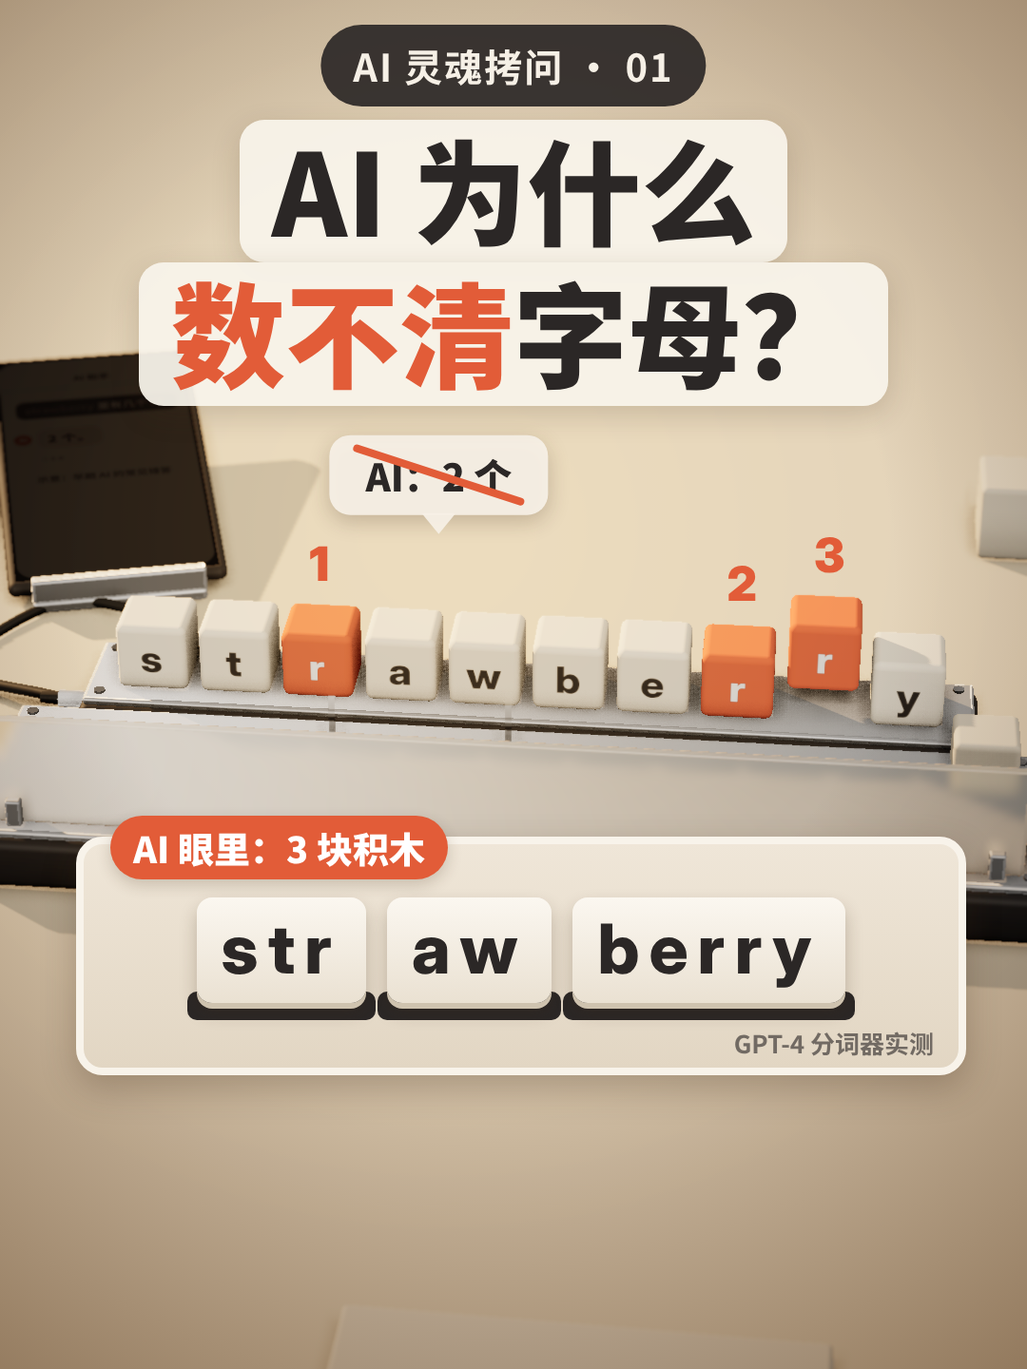
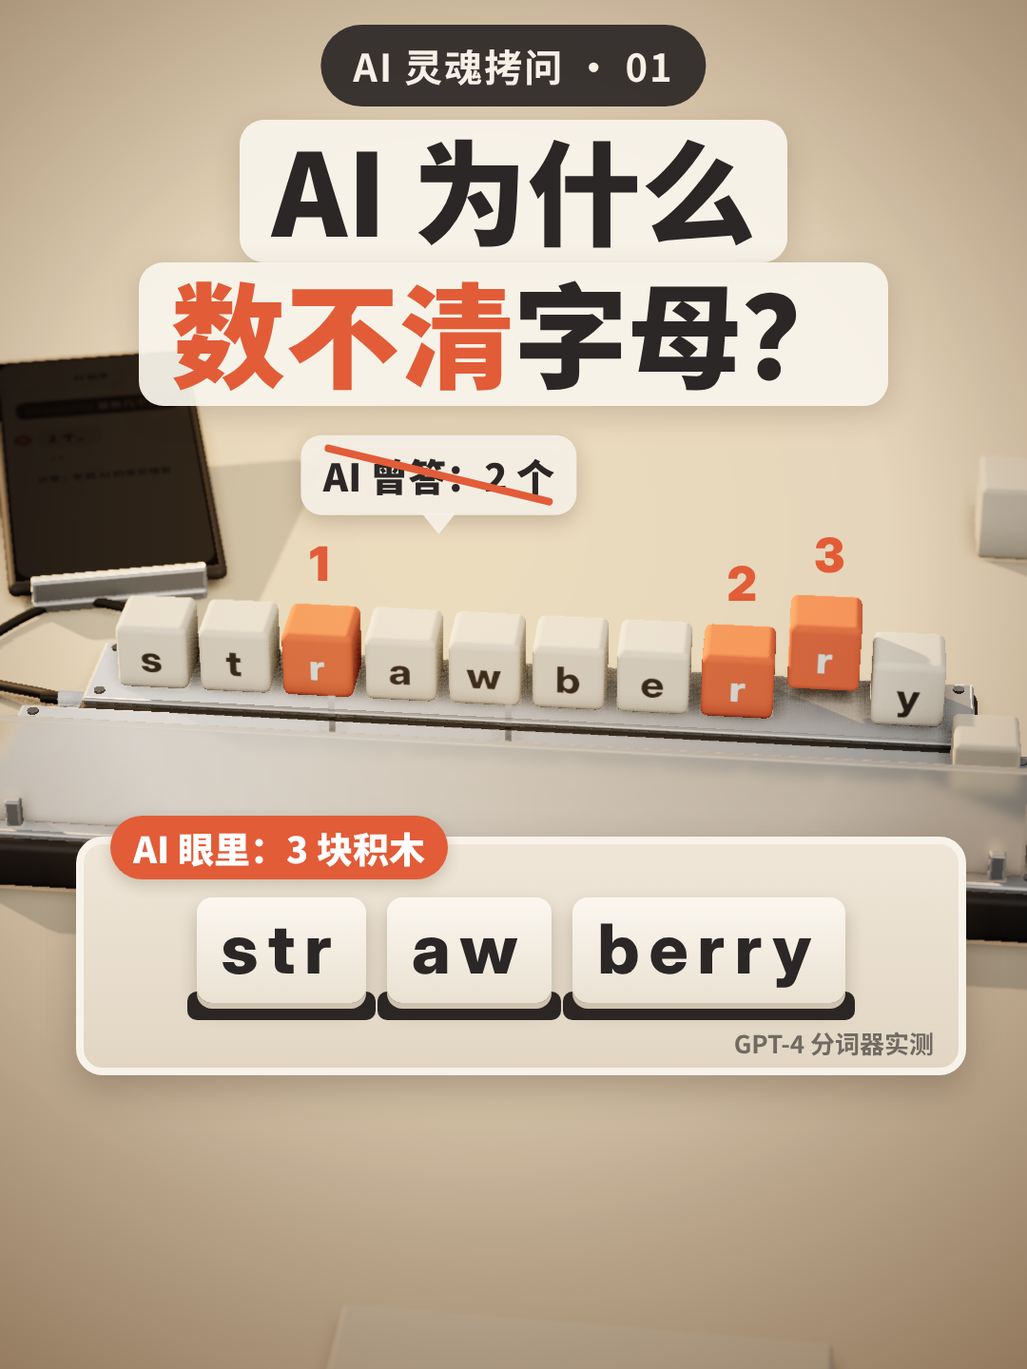
EP.01 交付后用户逐条定：第一句改写为「AI 读单词，不看字母。」（时长锁在 1.47 秒）、气泡和封面「AI 曾答：2 个」、片尾卡加「会」、「内容由 AI 生成」不勾
- timeline.js：第 0 句改写，新增 dur 字段把时长锁住，后面所有画面、配乐、音效时间不动
- film/index.html：气泡「AI 曾答：2 个」（加宽、打叉线跟着加长）；片尾卡「AI 为什么会一本正经地胡说八道？」
- 封面重出（6.8 秒主图跟着变）；publish.md 抖音描述第一句、AI 生成说明、「已定 / 仍请你确认」
- script.md、FACTS #18、观众反馈 (b)、DECISIONS、要求清单 #38 记用户的决定
- tools/splice.sh：只重渲的两段帧拼回成片，音轨原样拷贝

Claude-Session: https://claude.ai/code/session_01HJaZxEiPYNvN2cYMY5tVrD

Changed region(s): [[0.275, 0.3125, 0.5806, 0.375]]

diff --git a/episodes/ai-linghun/01-strawberry/film/index.html b/episodes/ai-linghun/01-strawberry/film/index.html
@@ -701,7 +701,7 @@ function endCard(t) {
   ctx.save(); ctx.globalAlpha = al; card(540, 860, 860, 560, { r: 36, a: 0.95 }); ctx.translate(540, 780); ctx.scale(s, s); txt("AI 灵魂拷问", 0, 0, { font: F(900, 112) }); ctx.restore();
   txt("#01  AI 看不见字母  ✓", 540, 910, { font: F(700, 44), alpha: ramp(t, END_CARD + 0.6, END_CARD + 0.9) });
   txt("下期 #02", 540, 1010, { font: F(900, 38), color: CORAL, alpha: ramp(t, END_CARD + 0.9, END_CARD + 1.2) });
-  txt("AI 为什么一本正经地胡说八道？", 540, 1072, { font: F(900, 46), alpha: ramp(t, END_CARD + 1.0, END_CARD + 1.3) });
+  txt("AI 为什么会一本正经地胡说八道？", 540, 1072, { font: F(900, 46), alpha: ramp(t, END_CARD + 1.0, END_CARD + 1.3) });
 }
 // ===================== end of ACTS =====================
 
@@ -857,10 +857,10 @@ function overlays(t) {
   const st = vis(t, b(1) - 0.75, a(4) + 0.45, 0.2, 0.3);
   if (st > 0) { const p = P3(-0.7, TRAY_Y + 1.6, TRAY_Z), s = back(ramp(t, b(1) - 0.75, b(1) - 0.4)), fl = ramp(t, a(3) + 0.05, a(3) + 0.4), sx = Math.max(Math.abs(Math.cos(Math.PI * fl)), 0.02), nw = fl >= 0.5;
     ctx.save(); ctx.globalAlpha = st; ctx.translate(p.x, p.y); ctx.scale(s * sx, s);
-    card(0, 0, nw ? 300 : 230, 84, { r: 22 }); ctx.fillStyle = CREAMC + "0.93)"; ctx.beginPath(); ctx.moveTo(-18, 40); ctx.lineTo(0, 62); ctx.lineTo(18, 40); ctx.fill();
+    card(0, 0, nw ? 300 : 290, 84, { r: 22 }); ctx.fillStyle = CREAMC + "0.93)"; ctx.beginPath(); ctx.moveTo(-18, 40); ctx.lineTo(0, 62); ctx.lineTo(18, 40); ctx.fill();
     if (nw) txt("如今：3 个 ✓", 0, 2, { font: F(900, 40), color: GREEN });
-    else { txt("AI：2 个", 0, 2, { font: F(900, 40) });
-      const x = ramp(t, a(2) + 0.85, a(2) + 1.0); if (x > 0) { ctx.strokeStyle = CORAL; ctx.lineWidth = 8; ctx.lineCap = "round"; ctx.beginPath(); ctx.moveTo(-86, -28); ctx.lineTo(-86 + 172 * x, -28 + 56 * x); ctx.stroke(); const x2 = ramp(t, a(2) + 1.0, a(2) + 1.12); if (x2 > 0) { ctx.beginPath(); ctx.moveTo(86, -28); ctx.lineTo(86 - 172 * x2, -28 + 56 * x2); ctx.stroke(); } }
+    else { txt("AI 曾答：2 个", 0, 2, { font: F(900, 40) });   // 用户 11-22：加上「曾」（如今很多 AI 已能答对），封面主图取自这一帧
+      const x = ramp(t, a(2) + 0.85, a(2) + 1.0); if (x > 0) { ctx.strokeStyle = CORAL; ctx.lineWidth = 8; ctx.lineCap = "round"; ctx.beginPath(); ctx.moveTo(-116, -28); ctx.lineTo(-116 + 232 * x, -28 + 56 * x); ctx.stroke(); const x2 = ramp(t, a(2) + 1.0, a(2) + 1.12); if (x2 > 0) { ctx.beginPath(); ctx.moveTo(116, -28); ctx.lineTo(116 - 232 * x2, -28 + 56 * x2); ctx.stroke(); } }
     }
     ctx.restore(); }
   // 1 2 3 over the r's (kept below the answer pill)

diff --git a/episodes/ai-linghun/01-strawberry/timeline.js b/episodes/ai-linghun/01-strawberry/timeline.js
@@ -12,7 +12,7 @@
   // at the moment the picture shows the same thing in coral (the voice reads the text without the brackets: use .plain).
   const LINES = [
     // A · hook (first frame: the chat with the wrong answer + the big question)
-    { seg: "A", text: "AI 根本“看不见”字母。" },
+    { seg: "A", text: "AI 读单词，不看字母。", dur: 1.47 },   // 用户 11-22：改写（三轮观众都卡在「看不见」：它明明能打出 strawberry）；dur 锁在原句的 1.47 秒，后面的画面、配乐、音效都不动
     { seg: "A", text: "问它 strawberry 里有几个 r，它曾经很自信地说：[两个]。" },
     { seg: "A", text: "正确答案是[三个]。" },
     { seg: "A", text: "如今很多 AI 已经能答对，" },
@@ -65,7 +65,7 @@
   }
   const L = []; let t = 0;
   for (const ln of LINES) {
-    const d = est(ln.text);
+    const d = ln.dur ?? est(ln.text);   // dur: fixed length (keeps everything after it where it was)
     L.push({ ...ln, plain: ln.text.replace(/[\[\]]/g, ""), t0: +t.toFixed(2), t1: +(t + d).toFixed(2) });
     t += d + (/[。？]$/.test(ln.text) ? STOP : GAP) + (ln.hold || 0);   // hold: extra time after the line for the picture to finish (user 11-22: 12–24 s a little too fast)
   }

diff --git a/episodes/ai-linghun/01-strawberry/publish.md b/episodes/ai-linghun/01-strawberry/publish.md
@@ -2,7 +2,7 @@
 
 「AI 灵魂拷问」第 1 集。代码块里的文字可以直接复制粘贴。
 
-**「内容由 AI 生成」：建议两个平台都勾选**。本集没有配音；其余环节都有 AI 参与：台词和字幕由 AI（Claude）起草、你审定；动画和封面的代码由 AI 编写、生成；**配乐由 AI 生成**（开源模型 ACE-Step 1.5）；音效是代码合成的。现有规则只写了「用 AI 配音的片子必须勾选」，没覆盖这些情况，所以最后由你定。
+**「内容由 AI 生成」：不勾选**（你 2026-11-22 定）。本集没有配音；配乐由 AI 生成（开源模型 ACE-Step 1.5），台词、动画和封面代码由 AI 参与起草和编写，音效是代码合成的。
 
 ## 抖音
 
@@ -12,7 +12,7 @@
 **描述**
 
 ```text
-AI 根本“看不见”字母。问它 strawberry 里有几个 r，它曾经很自信地答：2 个。不是它笨：AI 读文字之前，会先把文字切成一块块“积木”（Token，这一步叫分词），strawberry 在它眼里可能只是 str、aw、berry 三块。为什么不一个字母一个字母地读？太慢、太贵，每多读一块都要 GPU 多算一大笔账。
+AI 读单词，不看字母。问它 strawberry 里有几个 r，它曾经很自信地答：2 个。不是它笨：AI 读文字之前，会先把文字切成一块块“积木”（Token，这一步叫分词），strawberry 在它眼里可能只是 str、aw、berry 三块。为什么不一个字母一个字母地读？太慢、太贵，每多读一块都要 GPU 多算一大笔账。
 #AI #人工智能 #大模型 #Token #分词 #GPU #算力 #AI原理 #科普 #AI灵魂拷问
 ```
 
@@ -70,13 +70,16 @@ AI为啥数不清r？讲透Token
 会更准。让它先把 strawberry 写成 s t r a w b e r r y，每个字母就成了单独的一块积木（GPT-4 / GPT-4o 分词器实测：10 块），再数 r 就不容易漏。现在一些推理模型能答对，也是先这样拆开再数。
 ```
 
-## 交付时请你确认
-1. 第一句「AI 根本“看不见”字母」要不要改口：三轮观众都卡在这句（「它明明能打出 strawberry」）。现在片子第一句和抖音描述第一句都用它；要改的话片子和文案一起改（见 `观众反馈.md` 节点 ③ (b)）。
-2. 两处措辞：「几千个数字」（大模型实际在几千到一万多，见 FACTS #9）和「几十万个乘加单元 / 小工人」（按 H100 推算约 27 万，见 FACTS #13）。改了的话，片子字幕和小红书正文第 ④ 条要跟着改。
-3. 「内容由 AI 生成」勾不勾（见上）。
-4. 封面上的「AI：2 个」没有写「曾经」，也没有「示意」小字；如今很多 AI 已能答对，可能有人评论「我刚问了，它答对了」。可选：气泡改「AI 曾答：2 个」，或旁边加小字「示意：早期 AI 的常见错答」。
-5. 片尾卡大字「AI 为什么一本正经地胡说八道？」比字幕和文案少一个「会」，要统一的话需改片尾卡重渲。
-6. 动效：最长静止 0.70 秒（约 42 秒处），超过通用门槛 0.6 秒，在本系列放宽门槛 1.2 秒以内，所以判 PASS。1.2 秒是我定的建议值，还没经你确认（要求清单 #22）；你觉得 42 秒那里停得太久，可以改。
+## 已定（2026-11-22）
+- 第一句改写为「AI 读单词，不看字母。」（原句「AI 根本“看不见”字母」三轮观众都卡住）；片子字幕和抖音描述第一句一起改，时长锁在原句的 1.47 秒，后面的画面和配乐都没动。
+- 「内容由 AI 生成」：不勾选。
+- 片中和封面的气泡改为「AI 曾答：2 个」。
+- 片尾卡改为「AI 为什么会一本正经地胡说八道？」，和字幕、文案统一。
+
+## 仍请你确认
+1. 两处措辞要不要改：「几千个数字」（最大的模型是一万多个，见 FACTS #9）、「几十万个小工人 / 乘加单元」（按 H100 推算约 27 万，见 FACTS #13）。
+2. 动效：最长静止 0.70 秒（约 42 秒处），超过通用门槛 0.6 秒，在本系列放宽门槛 1.2 秒以内，所以判 PASS。1.2 秒是我定的建议值，还没经你确认（要求清单 #22）。
+3. 片尾卡上的集名仍是「#01 AI 看不见字母 ✓」，和改写前的第一句一个说法；要不要一起改（例如「#01 AI 不看字母」）。
 
 ## 备注
 - 搜索关键词（5 个）：Token、分词、大模型原理（话题 #大模型 #AI原理）、strawberry 有几个 r、GPU 算力。抖音描述和话题五个全覆盖；小红书标题有「AI」「Token」，正文和话题五个全覆盖。

diff --git a/episodes/ai-linghun/01-strawberry/FACTS.md b/episodes/ai-linghun/01-strawberry/FACTS.md
@@ -38,7 +38,7 @@
 |---|---|---|---|
 | 16 | AI 曾经很自信地答「2 个」 | 2024 年广为流传的测试（多款聊天机器人答 2）。来源：[Inc.（2024-08）How Many R’s in ‘Strawberry’? This AI Doesn’t Know](https://www.inc.com/kit-eaton/how-many-rs-in-strawberry-this-ai-cant-tell-you.html)：作者测试时 ChatGPT 坚持只有 2 个 r；[OpenAI 社区论坛（2024-06）](https://community.openai.com/t/incorrect-count-of-r-characters-in-the-word-strawberry/829618) 用户报告同样的错；TechCrunch（2024-08-27）「Why AI can’t spell ‘strawberry’」报道多款模型答 2，支撑「多款」：原文「According to formidable AI products like GPT-4o and Claude, the answer is twice.」（作者 Amanda Silberling；2026-11-22 审核打开原文核对。Inc. 原文审核访问返回 403，未能复核）。截图由用户发布前自行补存（可选）；片中手机对话是示意（已标「示意：早期 AI 的常见错答」），不指认具体产品 | 〔摘〕 |
 | 17 | 如今很多 AI 已经能答对 | 2026-11-22 实测：OpenAI 模型（通过 Codex 新会话，模型 gpt-6.2-sol，推理强度 none）中、英文各问一次，都答 3；提问原文和回答见 `facts/strawberry-test-2026-11-22.md`。背景：2024-09 有用户反映 o1 仍会答错（原文「still sometimes struggling」，[Futurism](https://futurism.com/openai-strawberry-o1-mistakes)）；2025-12 仍有报道称 GPT-5.2 在 ChatGPT 里答 2（原文「incorrectly identifies two r's in the word strawberry」，[Dataconomy](https://dataconomy.com/2025/12/15/gpt-5-2-still-counts-two-rs-in-strawberry)）。本地实测目前只有一个模型，「很多」靠这些报道和推理模型的普遍做法支撑，发布前建议再在一两款产品上问一次。所以台词用「很多 AI 已经能答对」而不是「都能」。国内产品（豆包、DeepSeek、Kimi 等）的截图由用户发布前手动补存（可选，不用自动化登录） | 〔测〕〔摘〕 |
-| 18 | 「AI 根本“看不见”字母」（底稿原句的引号已恢复） | 模型的输入是 Token 编号。tiktoken README（「What is BPE anyway?」一节）：「Language models don't see text like you and I, instead they see a sequence of numbers (known as tokens).」引号表示是口语化的说法：字母信息能在训练中被间接学到（Kaushal & Mahowald 2022，What do tokens know about their characters and how do they know it?，NAACL），这也是现在很多新 AI 能答对的原因之一；有的模型还会先把单词逐个字母拆开再数。后半句出处：[Marco-o1（arXiv:2411.14405）](https://arxiv.org/abs/2411.14405) 图 1 用的就是「strawberry 里有几个 r」这个例子来展示推理模型逐步推理；模型官方页：[AIDC-AI/Marco-o1](https://huggingface.co/AIDC-AI/Marco-o1)。「有的模型会先逐字母拆开再数」这半句只在 FACTS 和 `publish.md` 的备用回复里，片中没有 | 〔摘〕 |
+| 18 | 第一句「AI 读单词，不看字母」（2026-11-22 由「AI 根本“看不见”字母」改写：三轮观众都卡在「它明明能打出 strawberry」） | 模型的输入是 Token 编号。tiktoken README（「What is BPE anyway?」一节）：「Language models don't see text like you and I, instead they see a sequence of numbers (known as tokens).」引号表示是口语化的说法：字母信息能在训练中被间接学到（Kaushal & Mahowald 2022，What do tokens know about their characters and how do they know it?，NAACL），这也是现在很多新 AI 能答对的原因之一；有的模型还会先把单词逐个字母拆开再数。后半句出处：[Marco-o1（arXiv:2411.14405）](https://arxiv.org/abs/2411.14405) 图 1 用的就是「strawberry 里有几个 r」这个例子来展示推理模型逐步推理；模型官方页：[AIDC-AI/Marco-o1](https://huggingface.co/AIDC-AI/Marco-o1)。「有的模型会先逐字母拆开再数」这半句只在 FACTS 和 `publish.md` 的备用回复里，片中没有 | 〔摘〕 |
 | 18a | 备用回复：逐字母写出来再数，每个字母单独一块 | tiktoken 0.14.0 实测（2026-11-22）：「s t r a w b e r r y」在 `cl100k_base` 和 `o200k_base` 里都是 10 块，每个字母（连同前面的空格）一块；用连字符「s-t-r-a-w-b-e-r-r-y」也是 10 块 | 〔测〕 |
 
 ## v4 3D 样片（前 31 秒）新加的画面

diff --git a/episodes/ai-linghun/要求清单.md b/episodes/ai-linghun/要求清单.md
@@ -42,6 +42,7 @@
 | 35 | 加了声音的节奏会太赶，再给几个不同的样音（2026-11-22）。注：这是对「加配音后节奏」的担心，不是现在要改时间轴；若以后加配音，要先量字幕时长和语速，不能为配音再压 12–24 秒（#26） | 「目前这个节奏加入声音会有点太赶；先再给几个不同的样音吧」 |
 | 36 | 声线范围：只要男生的，偏科普科学质感一类的（2026-11-22）。即排除女声和偏播音腔 / 情绪化的声线；排除模仿真人的声线（主 agent 此前自定） | 「只要男生的，偏科普科学质感一类的」 |
 | 37 | 暂时不用配音了，直接出整片和封面配图（2026-11-22）。本集成片 = three.js 画面 + A1 配乐 + 音效，无配音；同时出封面。**注意：这一句是用户明确要求「整片」和「封面」一起出，对「交付顺序：先定视频，再出封面」是用户本人授权的例外**，但仍要走审核「通过」和观众，不能因此跳过。配音的事搁置，#33–#36 的声线样音留着备用 | 「暂时先不用配音了，直接出整片和封面配图吧」 |
+| 38 | 交付后逐条定：① 第一句改写；② 问「几千个数字」「几十万个小工人」两处措辞是什么意思（问题，待解释）；③ 「内容由 AI 生成」不加；④ 气泡和封面加「曾经」（「AI 曾答：2 个」）；⑤ 片尾卡加「会」（2026-11-22） | 「1. 改写一下 2. 这个是什么意思？3. 这个不加；4. 加上曾经 5. 加上会」 |
 
 ## 待用户定
 - 动效放宽的具体数值（#22）：「任意 5 秒窗口静止 < 45%、最长静止 ≤ 1.2 秒」是主 agent 定的建议值，待用户确认或调整；放宽只适用于本系列，其他系列仍按 `CLAUDE.md` 通用门槛。
@@ -53,7 +54,7 @@
 - EP.01：拆题四问、逐句脚本、开头 A / B / C 选哪个；对底稿原文的改动（`01-strawberry/script.md`「改动」一栏）是否认可；时长约 105 秒是否接受。
 - EP.01 `FACTS.md`：出处已补、实测已做（2026-11-22），「小工人」已定为张量核里的乘加单元（画面标了示意）。仍待用户定：「几千个数字」是否改「几千到上万个」；「几十万个」的措辞；第一句「AI 根本“看不见”字母」是否改口（三轮观众都卡在这句）。见 `publish.md`「交付时请你确认」。
 - 终版 Blender 调光（A/B 对比后发现）：磨砂玻璃雾度 / 切分时字母可读性（strawberry 几乎认不出）、导光管发光（AgX 下偏白、暖光不明显）、曝光（整体偏暗、对比偏低）。
-- 发布时「内容由 AI 生成」是否勾选：本集无 AI 配音，但配乐由 ACE-Step 生成（#30、#31）。通用规则只写了「AI 配音」要勾，没覆盖 AI 生成配乐；理由偏向勾选（平台按「内容含 AI 生成」判定，不限于配音），待用户定；发布由用户手动完成。
+- ~~发布时「内容由 AI 生成」是否勾选~~：已定，不勾选（#38 ③）。
 - 声音版（v3-sound）的音乐只测了速度、拍点、响度，好不好听由用户听了定；音乐是否有人声也由用户确认（`music/brief.md`）。
 - ~~片尾卡带「下期 #02」大字~~：已定，保留（#23 ④，2026-11-22）。
 - ~~暖光桌面风格色度 0.13–0.18 低于 0.2~~：已定，可以（#23 ⑤）。

diff --git a/DECISIONS.md b/DECISIONS.md
@@ -117,6 +117,7 @@
 - 2026-11-22：**Fish Audio：API 额度和订阅额度是分开的**。本环境保存了用户的 Fish key（api.fish.audio 网络密钥）；账号是 plus 订阅（订阅额度只能在网页 / App 用），API 额度为 0，所以 API 调用付费模型 s2.1-pro 返回 402，只能用免费模型 s2.1-pro-free。要用 s2.1-pro 需在 fish.audio/app/developers/billing 充 API 额度。用户想试更自然的声线：已用免费模型出 6 个社区声线样音 + 现用「科普」对照（`voice/samples/samples.json`），排除了模仿真人的声线。
 - 2026-11-22：**EP.01 先不配音，直接出整片和封面**。用户听了两批声线样音（第二批只要男声、偏科普科学质感：「只要男生的，偏科普科学质感一类的」）后说：「目前这个节奏加入声音会有点太赶」「暂时先不用配音了，直接出整片和封面配图吧」。这是用户本人对「交付顺序」的放行：用户说现在这版看着蛮不错（要求清单 #32），并要求直接出整片和封面（#37），所以先出交付包（封面、小红书全屏版、`publish.md`）；**视频最终以用户看完成片为准**，视频若改，封面、全屏版、`publish.md` 同步改；审核、监督、观众三关照走。（2026-11-22 节点 ③ 复核时改正：原写「视频视为确认」，夸大了用户的话。）以后若加配音：先放慢节奏（不能再压 12–24 秒），只要男声科普质感，声线从 `voice/samples2/` 里挑，正式生成要先给 Fish 充 API 额度。
 - 2026-11-22：**「AI 灵魂拷问」小红书全屏版上下补高**（和「为什么」不同）。本系列字幕在画面下方（约 y 1300–1400），只在顶部补 420 px 会把字幕推到全屏约 73–78% 的高度，落进小红书底部的标题 / 文案浮层；所以上下各补 210 px（各取最边上 24 行模糊拉伸），字幕落在约 65–69%。脚本 `episodes/ai-linghun/01-strawberry/tools/xhs.sh`。节点 ③ 审核认为妥当，代价是画面底边有东西动时底部补出的那条有拉伸拖影（大多被浮层挡住）。「为什么」系列字幕在顶部，仍只补顶部。
+- 2026-11-22：**EP.01 交付后用户逐条定**（对 `publish.md`「交付时请你确认」）：「1. 改写一下 2. 这个是什么意思？3. 这个不加；4. 加上曾经 5. 加上会」。即：① 第一句改写为「AI 读单词，不看字母。」（`timeline.js` 用 `dur` 锁在原句 1.47 秒，后面所有画面、配乐、音效时间不动）；② 两处措辞，用户先问是什么意思，待解释后再定；③ **「内容由 AI 生成」不勾选**（本集无配音，配乐由 AI 生成，用户定不加）；④ 片中和封面的气泡改为「AI 曾答：2 个」；⑤ 片尾卡加「会」。片子只重渲 0–9.9 秒和片尾卡（96–99.3 秒），拼回用户传回的成片，音轨原样保留。
 
 ## 2026-11-07 · 光互连 02 抖音拆解版第 1 条：纯动画对比版（v2）
 - 用户反馈：不靠旁白能看懂，但「跟谁比」一开始没讲清楚。改成上下两种送法从第一帧并排比：上「几十条路一起送」，下「排成一队送」；第一帧两部手机收到同一张照片，一张错位 ✗、一张完好 ✓。

diff --git a/episodes/ai-linghun/01-strawberry/观众反馈.md b/episodes/ai-linghun/01-strawberry/观众反馈.md
@@ -96,7 +96,7 @@
 - **交用户定 · 结构改动**（之前几轮用户已定过结构，这次不擅自改）：① 砍短 61–76 秒的算力段（第 4、10 条）；② 第一秒先把「strawberry 里有几个 r？」和「2 个」摆清楚，揭晓时第三个 r 和「三个」字幕同时出现（第 3、6、10 条）；③ 20–25 秒做「三块变一块」同屏对比，标出词前的空格（第 6、10 条）。
 - **交用户定 · 标题和文案**：
   - (a) 抖音主标题 / 封面大字改成「strawberry 有几个 r？AI 曾答 2 个」，光看封面就知道它错在哪（第 2 条）。
-  - (b) 第一句「AI 根本“看不见”字母」让人愣住，因为 AI 明明能打出 strawberry（第 3 条）。草稿、v2、节点 ③ 三轮观众都卡在这句。**交付包的方向和观众意见相反**：节点 ③ 审核修改时按「开头 2 秒规则」（第一句要反直觉）把这句放到了抖音描述第一句。是否改口（例如「AI 读这个词时，看到的可能是一整块」）请用户定，片子第一句和文案要一起改。
+  - (b) 第一句「AI 根本“看不见”字母」让人愣住，因为 AI 明明能打出 strawberry（第 3 条）。草稿、v2、节点 ③ 三轮观众都卡在这句。**交付包的方向和观众意见相反**：节点 ③ 审核修改时按「开头 2 秒规则」（第一句要反直觉）把这句放到了抖音描述第一句。是否改口（例如「AI 读这个词时，看到的可能是一整块」）请用户定，片子第一句和文案要一起改。**用户 2026-11-22 定：改写**，改为「AI 读单词，不看字母。」，片子和抖音描述一起改。
   - (c) 小红书正文第 ④ 条「像在补课」（第 7 条）。节点 ③ 审核修改时为覆盖搜索词「GPU 算力」又加了「这就是常说的算力」，变得更长。可选：④ 只留「块越多，算得越多」，数字留在片子里，搜索词靠话题覆盖。
   - (d) 47–49 秒「E9 BE / 98」看不懂是什么；68–73 秒「千亿参数」小字容易漏，以为任何 AI 读一个词都要算这么多（第 6 条）。属画面改动，交用户定。
 - **备用回复**：(e) 三轮观众都会问「先让 AI 逐个字母拼出来再数，会不会更准？」（第 9 条）。已写成作者回复备用，放在 `publish.md` 置顶评论一节（依据 FACTS #18、#18a：逐字母写出后每个字母单独一块，实测 10 块）。
